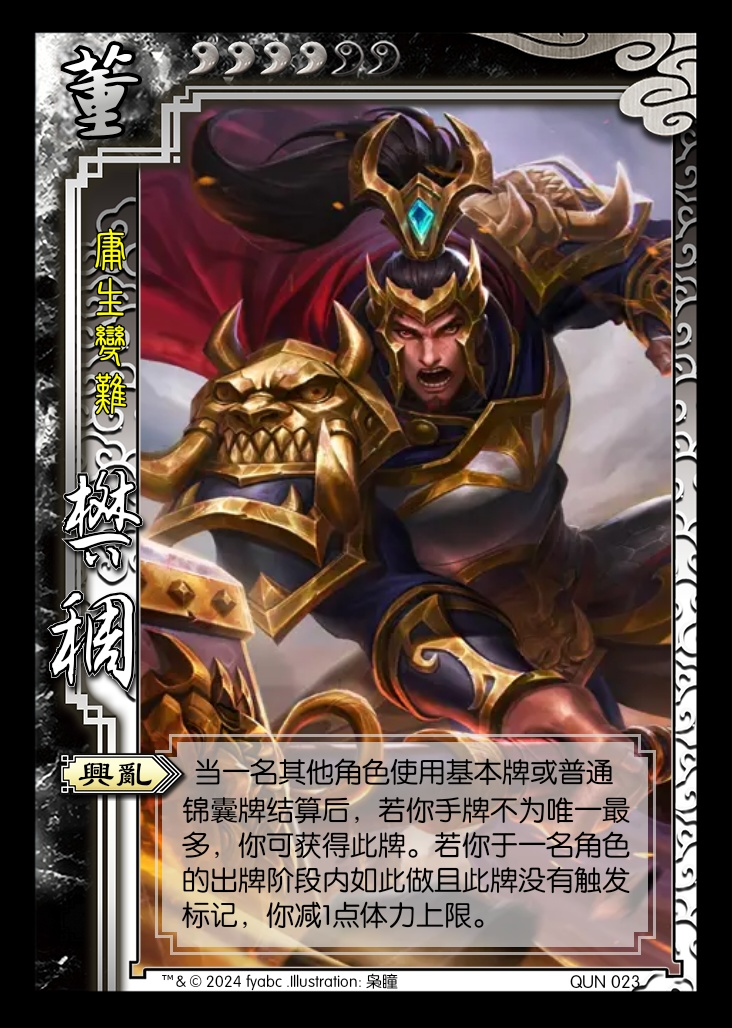
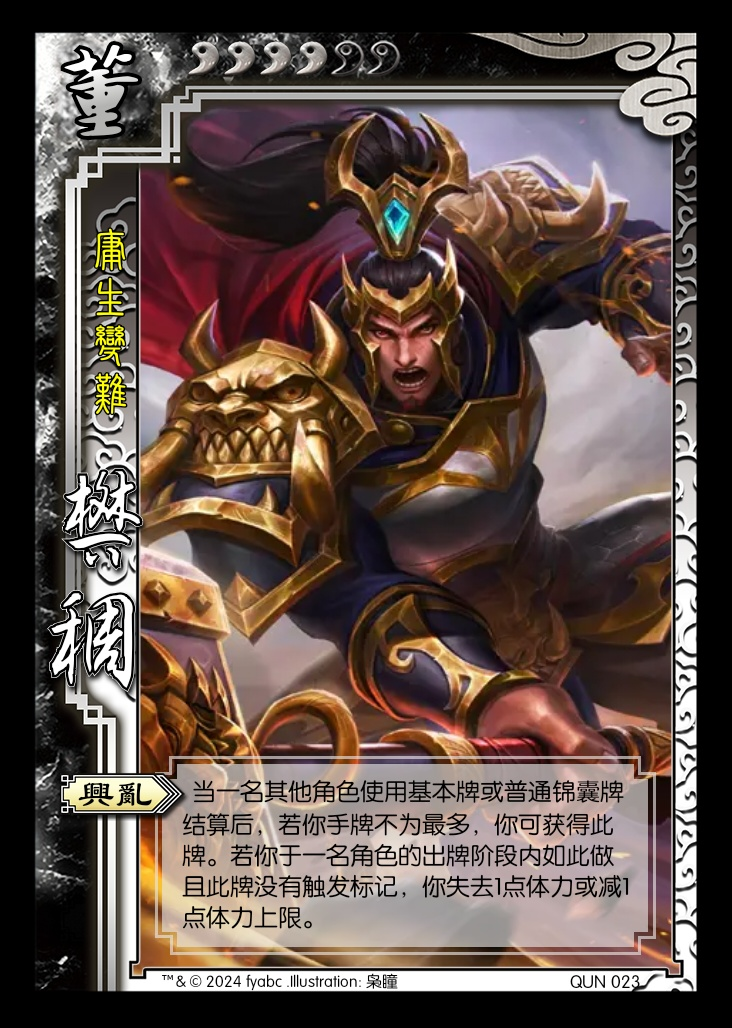
Fix in ext4.

diff --git a/SanGuoSha/SGS-RebirthProject/ext-main/ext4.md b/SanGuoSha/SGS-RebirthProject/ext-main/ext4.md
@@ -145,7 +145,7 @@
     1. 【贪狈】：当你回复体力时，你可以改为获得一名其他角色区域内等量的牌。
     2. 【噬骨】：每回合限一次，你可以将一张黑色手牌当血【杀】或【析骸而爨】使用。
 3. ![樊稠](../assets/images/ext-main/ext4/E4-QUN023-樊稠.jpg) QUN023 樊稠 男 群-董 4体力/6上限 称号：庸生变难
-    1. 【兴乱】：当一名其他角色使用基本牌或普通锦囊牌结算后，若你手牌不为唯一最多，你可获得此牌。若你于一名角色的出牌阶段内如此做且此牌没有触发标记，你减1点体力上限。
+    1. 【兴乱】：当一名其他角色使用基本牌或普通锦囊牌结算后，若你手牌不为最多，你可获得此牌。若你于一名角色的出牌阶段内如此做且此牌没有触发标记，你失去1点体力或减1点体力上限。
    
     > 【兴乱】可以免费获得其他角色结束阶段使用的触发牌（以【文和乱武】为代表），使这些牌额外触发一次，使局势更加混乱，体现“兴乱”的效果。  
     > TODO：测试强度，是否可能获得过多的牌？  
